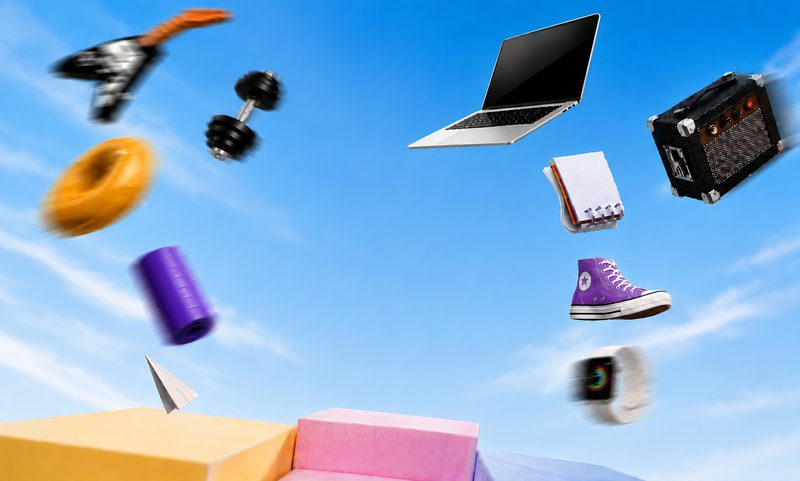
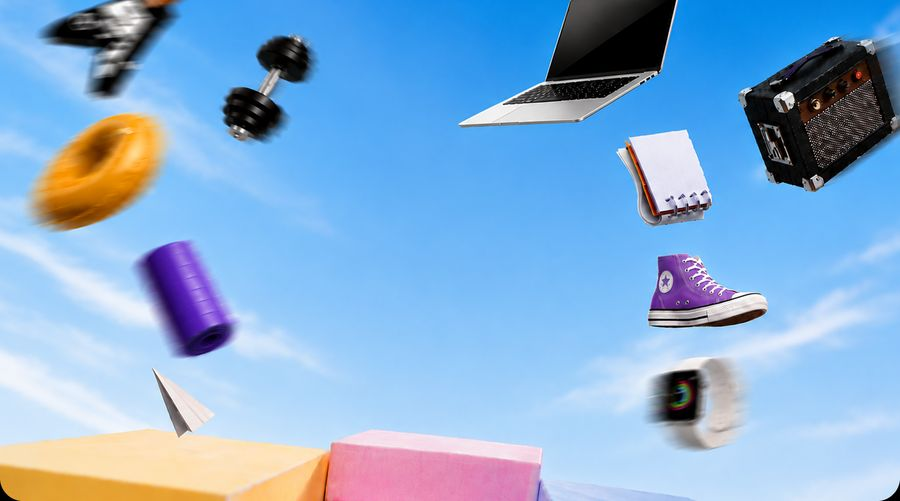
Ajustes de diseño: alineación, hero 3x, interlineado del titular

diff --git a/assets/css/styles.css b/assets/css/styles.css
@@ -85,11 +85,14 @@ h1,h2,h3{color:var(--n100); margin:0}
   object-position:center 42%}
 .hero-in{position:relative; z-index:2; width:100%; text-align:center;
   padding-bottom:clamp(28px,4.2vw,80px)}
-.hero h1{font-weight:900; letter-spacing:-.04em; line-height:.92; color:var(--n0);
-  margin:0 0 clamp(20px,2.6vw,50px); text-wrap:balance}
-.hero h1 span{display:block; font-size:clamp(38px,8vw,154px)}
+/* En el Figma las dos líneas comparten una caja de 172.35px, con la de arriba a
+   153.58px y la de abajo a 241.58px. De ahí salen los interlineados: 1.12 y
+   0.71. Un line-height único las separaba de más. */
+.hero h1{font-weight:900; letter-spacing:-.04em; color:var(--n0);
+  margin:0 0 clamp(20px,2.6vw,50px)}
+.hero h1 span{display:block; font-size:clamp(38px,8vw,154px); line-height:1.12}
 .hero h1 em{display:block; font-style:normal; color:var(--ink);
-  font-size:clamp(58px,12.6vw,242px)}
+  font-size:clamp(58px,12.6vw,242px); line-height:.71}
 
 /* buscador: pastilla blanca con el botón morado adentro */
 .askrow{position:relative; margin:0 auto; width:min(47.5vw,912px); min-width:min(100%,340px)}
@@ -153,7 +156,7 @@ h1,h2,h3{color:var(--n100); margin:0}
   padding-bottom:8px}
 .toprow{display:grid; grid-template-columns:repeat(5,1fr); gap:clamp(12px,1.3vw,16px)}
 
-.card{position:relative; display:flex; flex-direction:column; gap:12px}
+.card{position:relative; display:flex; flex-direction:column; gap:12px; color:inherit}
 .card-img{position:relative; aspect-ratio:1/1; border-radius:var(--r-card);
   background:var(--tint,var(--t1)); overflow:hidden; transition:transform .18s}
 .card:hover .card-img{transform:translateY(-3px)}
@@ -167,13 +170,6 @@ h1,h2,h3{color:var(--n100); margin:0}
   display:inline-flex; align-items:center; height:30px; padding:0 12px;
   border-radius:var(--r-pill); background:var(--pur); color:var(--n0);
   font-size:12px; font-weight:900}
-.card-add{position:absolute; bottom:14px; right:14px; z-index:3;
-  width:46px; height:46px; border-radius:var(--r-pill); background:var(--n0);
-  display:flex; align-items:center; justify-content:center; color:var(--n100);
-  box-shadow:0 2px 8px rgba(16,16,17,.14); transition:background .15s, color .15s, transform .15s}
-.card-add:hover{background:var(--pur); color:var(--n0); transform:scale(1.06)}
-.card-add .ico{font-size:22px}
-.card-hit{position:absolute; inset:0; z-index:1; border-radius:var(--r-card)}
 .card-body{display:flex; flex-direction:column; gap:9px; padding-inline:8px}
 .card-name{font-size:16px; font-weight:700; line-height:1.25; color:var(--n100)}
 .card-name span{display:-webkit-box; -webkit-line-clamp:2; -webkit-box-orient:vertical;
@@ -362,7 +358,7 @@ h1,h2,h3{color:var(--n100); margin:0}
   .hero{min-height:auto; border-radius:0 0 var(--r-band) var(--r-band)}
   .hero-bg{object-position:center 38%}
   .hero-in{padding-top:26px; padding-bottom:32px}
-  .hero h1{margin-bottom:24px; line-height:.94}
+  .hero h1{margin-bottom:24px}
   .hero h1 span{font-size:12.4vw}
   .hero h1 em{font-size:19.4vw}   /* 21vw tocaba los bordes con "comprar" */
 
@@ -382,10 +378,11 @@ h1,h2,h3{color:var(--n100); margin:0}
   .section-head{margin-bottom:16px; gap:10px}
   .section-head h2{font-size:23px}
 
-  /* Categorías y top ofertas: filas scrolleables sangradas al borde, para que
-     se note que hay más contenido a la derecha. */
+  /* Categorías y top ofertas: filas scrolleables. El sangrado va SOLO a la
+     derecha —ahí comunica que hay más contenido—; a la izquierda arrancan
+     alineadas con el título de la sección. */
   .cats, .toprow{display:flex; overflow-x:auto; gap:12px; scrollbar-width:none;
-    margin-inline:-18px; padding-inline:18px; scroll-snap-type:x proximity}
+    margin-right:-18px; padding-right:18px; scroll-snap-type:x proximity}
   .cats::-webkit-scrollbar, .toprow::-webkit-scrollbar{display:none}
   .cats > *{flex:0 0 42%; scroll-snap-align:start}
   .toprow > *{flex:0 0 62%; scroll-snap-align:start}
@@ -393,14 +390,20 @@ h1,h2,h3{color:var(--n100); margin:0}
   .cat-n{font-size:14px}
 
   /* ---- Explora todo ---- */
-  #catalogo .section-head{flex-wrap:nowrap}
+  /* "Explora todo" en una línea y Filtros pegado a la derecha. `display:contents`
+     disuelve .filters para que .filterbar y #chiprows sean hijos directos de la
+     fila: así el botón se va al extremo derecho y los chips, al abrirse, bajan a
+     su propia línea a todo el ancho. */
+  #catalogo .section-head{flex-wrap:wrap; row-gap:14px; gap:12px}
+  #catalogo .section-head h2{white-space:nowrap}
   #catalogo .count{display:none}
-  .filters{width:100%; margin-left:0; flex-direction:column; align-items:stretch; gap:12px}
-  .filterbar{display:flex}
-  #chiprows{display:none; flex-direction:column; gap:10px}
+  .filters{display:contents}
+  .filterbar{display:flex; width:auto; margin-left:auto}
+  .fcount{display:none}           /* el contador no aporta y apretaba la fila */
+  #chiprows{display:none; width:100%; flex-direction:column; gap:10px}
   .filters.open #chiprows{display:flex}
   #catChips{display:flex}
-  .chiprow{margin-inline:-18px; padding-inline:18px}
+  .chiprow{margin-right:-18px; padding-right:18px}
 
   .grid{grid-template-columns:repeat(2,1fr); gap:14px}
   .card{gap:10px}
@@ -410,9 +413,7 @@ h1,h2,h3{color:var(--n100); margin:0}
   .card-price s{font-size:13px}
   .card-pag{font-size:12px}
   .card-badge{top:10px; left:10px; height:26px; padding:0 10px; font-size:11px}
-  .card-add{bottom:10px; right:10px; width:38px; height:38px}
-  .card-add .ico{font-size:19px}
-
+    
   .pager{padding-top:28px; gap:6px}
   .pg{min-width:38px; height:40px; padding:0 9px; font-size:14px}
 

diff --git a/index.html b/index.html
@@ -8,8 +8,8 @@
   <meta name="theme-color" content="#5101BC">
   <link rel="icon" type="image/png" sizes="32x32" href="assets/img/favicon-32.png">
   <link rel="apple-touch-icon" href="assets/img/favicon-180.png">
-  <link rel="preload" as="image" href="assets/img/hero-sky.jpg" imagesrcset="assets/img/hero-sky-sm.jpg 800w, assets/img/hero-sky.jpg 1600w" imagesizes="100vw">
-  <link rel="stylesheet" href="assets/css/styles.css?v=45">
+  <link rel="preload" as="image" href="assets/img/hero-sky.jpg" imagesrcset="assets/img/hero-sky-sm.jpg 900w, assets/img/hero-sky.jpg 1800w, assets/img/hero-sky-2x.jpg 2800w" imagesizes="100vw">
+  <link rel="stylesheet" href="assets/css/styles.css?v=49">
 </head>
 <body>
 
@@ -17,7 +17,6 @@
   <symbol id="i-wa" viewBox="0 0 32 32"><path d="M16 3C8.8 3 3 8.8 3 16c0 2.3.6 4.5 1.7 6.4L3 29l6.8-1.8C11.6 28.4 13.8 29 16 29c7.2 0 13-5.8 13-13S23.2 3 16 3zm0 23.6c-2 0-3.9-.5-5.5-1.5l-.4-.2-4 1 1.1-3.9-.3-.4A10.5 10.5 0 0 1 5.5 16C5.5 10.2 10.2 5.5 16 5.5S26.5 10.2 26.5 16 21.8 26.6 16 26.6zm5.8-7.9c-.3-.2-1.9-.9-2.2-1-.3-.1-.5-.2-.7.2-.2.3-.8 1-1 1.2-.2.2-.4.2-.7.1-.3-.2-1.4-.5-2.6-1.6-1-.9-1.6-1.9-1.8-2.2-.2-.3 0-.5.1-.7l.5-.6c.2-.2.2-.3.3-.5.1-.2.1-.4 0-.6l-1-2.4c-.3-.6-.5-.5-.7-.6h-.6c-.2 0-.6.1-.9.4-.3.3-1.1 1.1-1.1 2.7s1.2 3.1 1.3 3.3c.2.2 2.3 3.5 5.5 4.9.8.3 1.4.5 1.8.7.8.2 1.5.2 2 .1.6-.1 1.9-.8 2.2-1.5.3-.7.3-1.4.2-1.5z"/></symbol>
   <symbol id="i-search" viewBox="0 0 24 24"><path d="M15.5 14h-.79l-.28-.27a6.5 6.5 0 1 0-.7.7l.27.28v.79l5 5 1.5-1.5-5-5zm-6 0A4.5 4.5 0 1 1 14 9.5 4.5 4.5 0 0 1 9.5 14z"/></symbol>
   <symbol id="i-arrow-r" viewBox="0 0 24 24"><path d="M12 4l-1.4 1.4L16.2 11H4v2h12.2l-5.6 5.6L12 20l8-8z"/></symbol>
-  <symbol id="i-add" viewBox="0 0 24 24"><path d="M19 13h-6v6h-2v-6H5v-2h6V5h2v6h6z"/></symbol>
   <symbol id="i-chev-l" viewBox="0 0 24 24"><path d="M15.4 7.4L14 6l-6 6 6 6 1.4-1.4L10.8 12z"/></symbol>
   <symbol id="i-chev-r" viewBox="0 0 24 24"><path d="M8.6 16.6L10 18l6-6-6-6-1.4 1.4L13.2 12z"/></symbol>
   <symbol id="i-close" viewBox="0 0 24 24"><path d="M19 6.4L17.6 5 12 10.6 6.4 5 5 6.4 10.6 12 5 17.6 6.4 19 12 13.4 17.6 19 19 17.6 13.4 12z"/></symbol>
@@ -39,7 +38,7 @@
 
 <section class="hero">
   <img class="hero-bg" src="assets/img/hero-sky.jpg"
-       srcset="assets/img/hero-sky-sm.jpg 800w, assets/img/hero-sky.jpg 1600w"
+       srcset="assets/img/hero-sky-sm.jpg 900w, assets/img/hero-sky.jpg 1800w, assets/img/hero-sky-2x.jpg 2800w"
        sizes="100vw" alt="" fetchpriority="high">
   <div class="hero-in wrap">
     <h1><span>Hoy quiero</span><em>comprar</em></h1>
@@ -79,7 +78,6 @@
         <button class="fbtn" id="filterToggle" type="button" aria-expanded="false" aria-controls="chiprows">
           <svg class="ico"><use href="#i-filter"/></svg><span>Filtros</span><b class="fbtn-n" id="fCount" hidden></b>
         </button>
-        <span class="fcount" id="countBar"></span>
       </div>
       <div id="chiprows">
         <div class="chiprow" id="catChips"></div>
@@ -129,8 +127,8 @@
   </div>
 </footer>
 
-<script src="assets/js/config.js?v=45"></script>
-<script src="assets/js/embed-height.js?v=45"></script>
-<script src="assets/js/catalog.js?v=45"></script>
+<script src="assets/js/config.js?v=49"></script>
+<script src="assets/js/embed-height.js?v=49"></script>
+<script src="assets/js/catalog.js?v=49"></script>
 </body>
 </html>

diff --git a/assets/js/catalog.js b/assets/js/catalog.js
@@ -58,9 +58,12 @@ function imgTag(p, cls) {
 }
 
 /* ---- Card de producto ---- */
+/* La card entera es el link a la página de producto. Desde ahí se va a
+ * WhatsApp: es el flujo que ya estaba validado y deja ver ficha y precio
+ * antes de escribir. */
 function cardHTML(p) {
   const pg = VPS.paguitos(p.price);
-  return '<div class="card">' +
+  return '<a class="card" href="product.html?id=' + encodeURIComponent(p.id) + '">' +
     '<div class="card-img" style="--tint:' + tint(p.id) + '">' +
       imgTag(p) +
       (p.discount_pct ? '<span class="card-badge">-' + p.discount_pct + "%</span>" : "") +
@@ -71,10 +74,7 @@ function cardHTML(p) {
         (p.compare_at_price ? "<s>" + VPS.money(p.compare_at_price) + "</s>" : "") + "</div>" +
       '<div class="card-pag">' + pg.n + " paguitos de " + VPS.money2(pg.per) + "</div>" +
     "</div>" +
-    '<a class="card-hit" href="product.html?id=' + encodeURIComponent(p.id) + '" aria-label="Ver ' + esc(p.title) + '"></a>' +
-    '<a class="card-add" href="' + esc(VPS.waLink(p, 1)) + '" target="_blank" rel="noopener" aria-label="Pedir por WhatsApp">' +
-      ico("i-add") + "</a>" +
-  "</div>";
+  "</a>";
 }
 
 /* ---- Explora por categoría ----
@@ -174,12 +174,9 @@ function render() {
   const desde = (state.page - 1) * PER_PAGE;
   const pagina = base.slice(desde, desde + PER_PAGE);
 
-  const etiqueta = base.length
-    ? base.length + " producto" + (base.length === 1 ? "" : "s") +
-      (paginas > 1 ? " · página " + state.page + " de " + paginas : "")
-    : "";
-  $("#count").textContent = etiqueta;
-  $("#countBar").textContent = etiqueta;
+  // Solo el total, como en el diseño. La página en curso ya la dice el pager.
+  $("#count").textContent = base.length
+    ? base.length + " producto" + (base.length === 1 ? "" : "s") : "";
 
   $("#grid").innerHTML = pagina.length
     ? pagina.map(cardHTML).join("")

diff --git a/product.html b/product.html
@@ -7,7 +7,7 @@
   <link rel="icon" type="image/png" sizes="32x32" href="assets/img/favicon-32.png">
   <link rel="apple-touch-icon" href="assets/img/favicon-180.png">
   <meta name="theme-color" content="#5101BC">
-  <link rel="stylesheet" href="assets/css/styles.css?v=45">
+  <link rel="stylesheet" href="assets/css/styles.css?v=49">
 </head>
 <body>
 
@@ -16,7 +16,6 @@
   <symbol id="i-arrow-l" viewBox="0 0 24 24"><path d="M12 20l1.4-1.4L7.8 13H20v-2H7.8l5.6-5.6L12 4l-8 8z"/></symbol>
   <symbol id="i-check" viewBox="0 0 24 24"><path d="M12 2a10 10 0 100 20 10 10 0 000-20zm-1.2 15L6.5 12.7l1.4-1.4 2.9 2.9 5.3-5.3 1.4 1.4z"/></symbol>
   <symbol id="i-lock" viewBox="0 0 24 24"><path d="M18 8h-1V6A5 5 0 007 6v2H6a2 2 0 00-2 2v10a2 2 0 002 2h12a2 2 0 002-2V10a2 2 0 00-2-2zM9 6a3 3 0 016 0v2H9zm3 12a2 2 0 110-4 2 2 0 010 4z"/></symbol>
-  <symbol id="i-add" viewBox="0 0 24 24"><path d="M19 13h-6v6h-2v-6H5v-2h6V5h2v6h6z"/></symbol>
   <symbol id="i-pay" viewBox="0 0 24 24"><path d="M20 4H4a2 2 0 00-2 2v12a2 2 0 002 2h16a2 2 0 002-2V6a2 2 0 00-2-2zm0 14H4v-6h16zm0-9H4V6h16z"/></symbol>
 </defs></svg>
 
@@ -49,8 +48,8 @@
   </div>
 </footer>
 
-<script src="assets/js/config.js?v=45"></script>
-<script src="assets/js/embed-height.js?v=45"></script>
-<script src="assets/js/product.js?v=45"></script>
+<script src="assets/js/config.js?v=49"></script>
+<script src="assets/js/embed-height.js?v=49"></script>
+<script src="assets/js/product.js?v=49"></script>
 </body>
 </html>

diff --git a/assets/js/product.js b/assets/js/product.js
@@ -101,7 +101,7 @@ function renderRelated() {
     '<div class="related"><h2>Más de ' + esc(P.merchant) + "</h2>" +
       '<div class="grid">' + rel.map((p) => {
         const pg = VPS.paguitos(p.price);
-        return '<div class="card">' +
+        return '<a class="card" href="product.html?id=' + encodeURIComponent(p.id) + '">' +
           '<div class="card-img" style="--tint:' + tint(p.id) + '">' +
             '<img src="' + cutout(p, 0) + '" alt="' + esc(p.title) + '" loading="lazy"' + onerr(p) + '>' +
             (p.discount_pct ? '<span class="card-badge">-' + p.discount_pct + '%</span>' : '') +
@@ -112,10 +112,7 @@ function renderRelated() {
               (p.compare_at_price ? '<s>' + VPS.money(p.compare_at_price) + '</s>' : '') + '</div>' +
             '<div class="card-pag">' + pg.n + ' paguitos de ' + VPS.money2(pg.per) + '</div>' +
           '</div>' +
-          '<a class="card-hit" href="product.html?id=' + encodeURIComponent(p.id) + '" aria-label="Ver ' + esc(p.title) + '"></a>' +
-          '<a class="card-add" href="' + esc(VPS.waLink(p, 1)) + '" target="_blank" rel="noopener" aria-label="Pedir por WhatsApp">' +
-            ico("i-add") + '</a>' +
-        '</div>';
+        '</a>';
       }).join("") + "</div></div>";
 }
 
